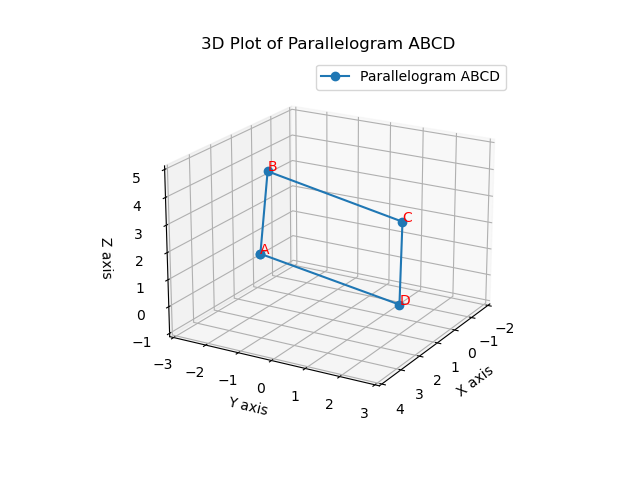
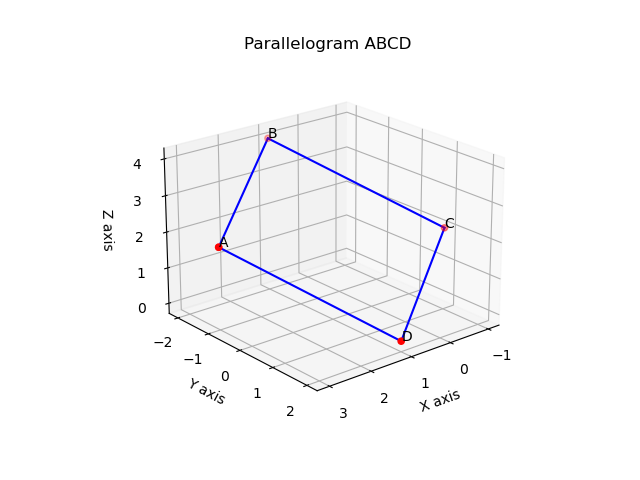
commit

diff --git a/MatGeo/Q1/codes/plot.py b/MatGeo/Q1/codes/plot.py
@@ -1,52 +1,77 @@
 import numpy as np
 import matplotlib.pyplot as plt
-from mpl_toolkits.mplot3d import Axes3D
+from mpl_toolkits.mplot3d.art3d import Poly3DCollection
+
+# Function definitions
+
+def create_mat(m, n):
+    return np.zeros((m, n))
+
+def mat_add(a, b):
+    return np.add(a, b)
+
+def mat_scale(a, k):
+    return np.multiply(a, k)
+
+def mat_sub(a, b):
+    return np.subtract(a, b)
+
+def matmul(a, b):
+    return np.matmul(a, b)
+
+def rot_mat(theta):
+    return np.array([[np.cos(theta), -np.sin(theta)], [np.sin(theta), np.cos(theta)]])
+
+def norm_vec(a):
+    # Assuming a is a 2D vector for rotation
+    return matmul(rot_mat(np.pi / 2), a)
+
+def matsec(a, b, k):
+    temp = mat_add(a, mat_scale(b, k))
+    return mat_scale(temp, 1 / (k + 1))
 
 # Given vertices
 A = np.array([3, -1, 2])
 B = np.array([1, -2, 4])
 C = np.array([-1, 1, 2])
+D = np.array([1, 2, 0])  # Provided directly
 
-# Calculate the fourth vertex D
-# Midpoint of diagonal AC
-mid_AC = (A + C) / 2
+# Define the vertices of the parallelogram
+vertices = np.array([A, B, C, D, A])
 
-# Midpoint of diagonal BD should be equal to mid_AC
-# Let D = [x, y, z]
-# Midpoint of BD = (B + D) / 2 = mid_AC
-# Thus, D = 2 * mid_AC - B
-D = 2 * mid_AC - B
-
-# Print the coordinates of D
-print("Coordinates of the fourth vertex D:", D)
+# Define the edges of the parallelogram
+edges = [
+    [A, B],
+    [B, C],
+    [C, D],
+    [D, A],
+]
 
 # Plotting the parallelogram
 fig = plt.figure()
 ax = fig.add_subplot(111, projection='3d')
 
-# Plotting vertices
-vertices = np.array([A, B, C, D, A])
-ax.plot(vertices[:, 0], vertices[:, 1], vertices[:, 2], 'o-', label='Parallelogram ABCD')
+# Plotting the vertices
+ax.scatter(vertices[:, 0], vertices[:, 1], vertices[:, 2], color='r')
 
-# Annotate the vertices
-for i, txt in enumerate(['A', 'B', 'C', 'D']):
-    ax.text(vertices[i, 0], vertices[i, 1], vertices[i, 2], txt, color='red')
+# Plotting the edges
+for edge in edges:
+    ax.plot([edge[0][0], edge[1][0]], 
+            [edge[0][1], edge[1][1]], 
+            [edge[0][2], edge[1][2]], 'b-')
 
-# Set labels and title
+# Adding labels to the vertices
+for i, vertex in enumerate([A, B, C, D]):
+    ax.text(vertex[0], vertex[1], vertex[2], f'{chr(65+i)}', color='black')
+
+# Set the labels for axes
 ax.set_xlabel('X axis')
 ax.set_ylabel('Y axis')
 ax.set_zlabel('Z axis')
-ax.set_title('3D Plot of Parallelogram ABCD')
 
-# Set the viewing angle for better visibility
-ax.view_init(elev=20, azim=30)
-
-# Adjust plot limits for better visibility
-ax.set_xlim([min(vertices[:, 0]) - 1, max(vertices[:, 0]) + 1])
-ax.set_ylim([min(vertices[:, 1]) - 1, max(vertices[:, 1]) + 1])
-ax.set_zlim([min(vertices[:, 2]) - 1, max(vertices[:, 2]) + 1])
-
-plt.legend()
-plt.show()
-plt.grid(True)
+# Set the title
+ax.set_title('Parallelogram ABCD')
+plt.grid()
 plt.savefig("Figure_1.png")
+plt.show()
+

diff --git a/MatGeo/Q1/codes/series.c b/MatGeo/Q1/codes/series.c
@@ -23,17 +23,17 @@ int main() {
 	C[0][0]=-1;
 	C[1][0]=1;
 	C[2][0]=2;
-        D[0][0]=A[0][0]+C[0][0]-B[0][0];
-	D[1][0]=A[1][0]+C[1][0]-B[1][0];
-	D[2][0]=A[2][0]+C[2][0]-B[2][0];
+        D=Matadd(A,C,3,1);
+	D=Matsub(D,B,3,1);
 	FILE *file =fopen("output.dat","w");
 	if (file==NULL)  {
 		printf("Error opening file!\n");
 		return 1;
 	}
-	fprintf(file,"The value of x is %f\n",D[0][0]);
-	fprintf(file,"The value of y is %f\n",D[1][0]);
-	fprintf(file,"The value of z is %f\n",D[2][0]);
+	fprintf(file,"X\n");
+        fprintf(file,"%f\n",D[0][0]);
+	fprintf(file,"%f\n",D[1][0]);
+	fprintf(file,"%f\n",D[2][0]);
 	fclose(file);
 
 	freeMat(A,3);

diff --git a/MatGeo/Q1/tables/table.tex b/MatGeo/Q1/tables/table.tex
@@ -2,12 +2,12 @@
     \hline
     \textbf{Vertices} & \textbf{Given}\\ 
     \hline
-     A & \brak{3,-1,2} \\
+     A & $\myvec{3,-1,2}$ \\
     \hline 
-     B & \brak{1,-2,4}\\
+     B & $\myvec{1,-2,4}$\\
     \hline
-     C& \brak{-1,1,2}\\
+     C& $\myvec{-1,1,2}$\\
     \hline
-     D & \brak{x,y,z}\\
+     D & $\myvec{x,y,z}$\\
     \hline   
     \end{tabular}
